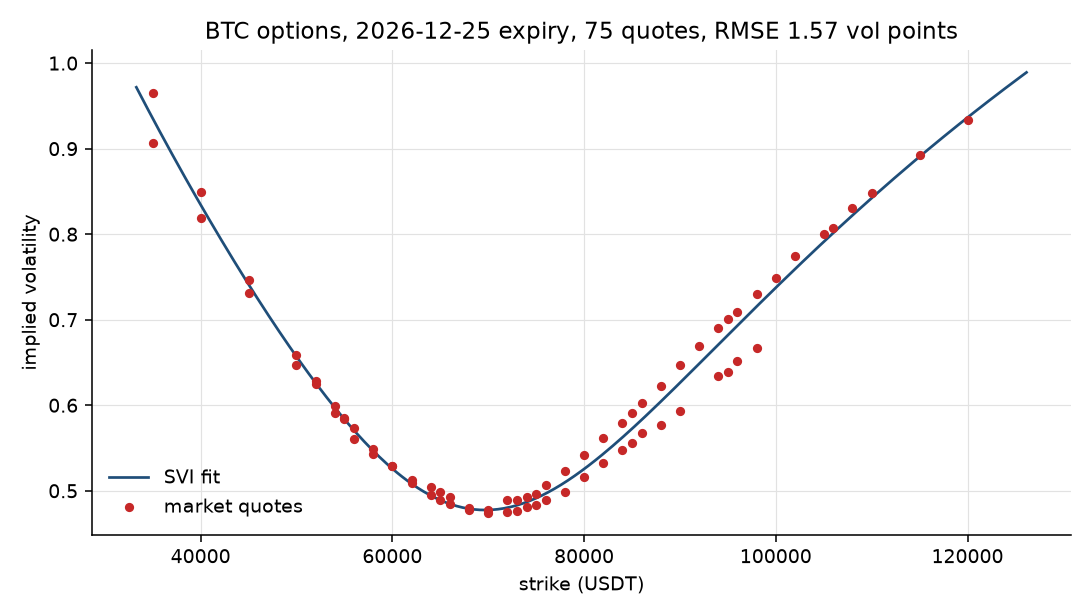
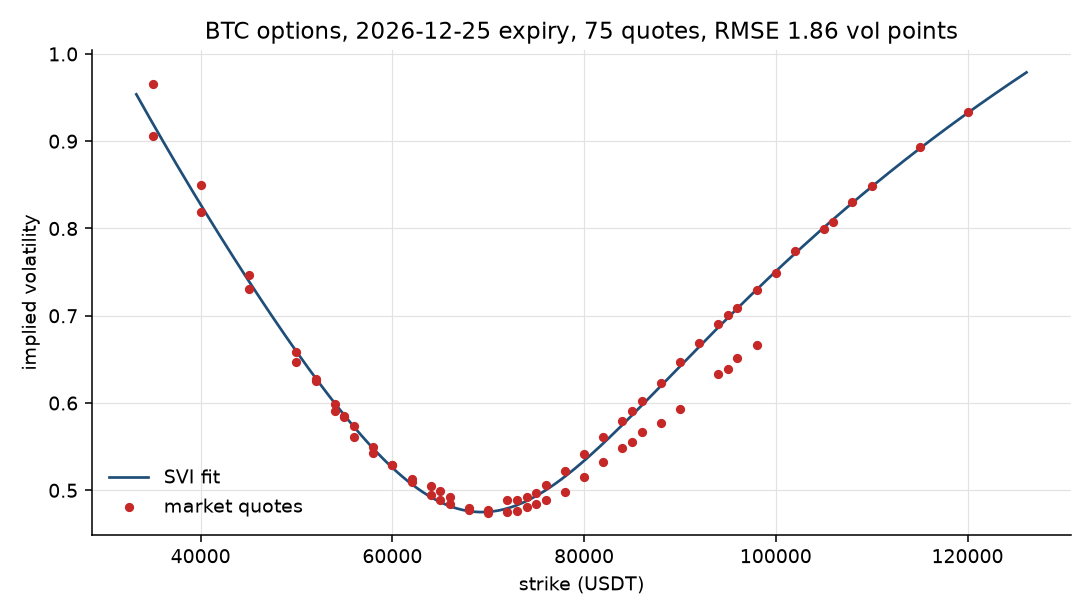
Weight quotes by spread and speed up the binomial tree

diff --git a/src/options_pricer/surface.py b/src/options_pricer/surface.py
@@ -191,17 +191,26 @@ def _fit(
     ridge: float,
     floor: SviParams | None = None,
     floor_weight: float = 10.0,
+    weights: list[float] | None = None,
 ) -> tuple[SviParams, float]:
     calendar_grid = np.linspace(-1.0, 1.0, 41)
     floor_values = (
         np.array([total_variance(k, floor) for k in calendar_grid]) if floor is not None else None
     )
 
+    if weights is not None:
+        if len(weights) != len(widths):
+            raise ValueError("weights must have one entry per quote")
+        scale = np.sqrt(np.array(weights, dtype=float))
+    else:
+        scale = np.ones(len(widths))
+
     def residuals(theta: np.ndarray) -> np.ndarray:
         candidate = SviParams(*[float(value) for value in theta])
         market = np.array(
             [total_variance(k, candidate) - w for k, w in zip(ks, widths, strict=True)], dtype=float
         )
+        market = market * scale
         shrink = ridge * (theta - guess)
         parts = [market, shrink]
 
@@ -238,6 +247,7 @@ def _fit_hard(
     initial: SviParams | None,
     ridge: float,
     floor: SviParams,
+    weights: list[float] | None = None,
 ) -> tuple[SviParams, float]:
     """Fit with the calendar constraint imposed as an explicit inequality.
 
@@ -259,9 +269,16 @@ def _fit_hard(
 
     def objective(theta: np.ndarray) -> float:
         candidate = SviParams(*[float(value) for value in theta])
-        market = sum(
-            (total_variance(k, candidate) - w) ** 2 for k, w in zip(ks, widths, strict=True)
+        if weights is None:
+            weight_array = np.ones(len(widths))
+        else:
+            if len(weights) != len(widths):
+                raise ValueError("weights must have one entry per quote")
+            weight_array = np.array(weights, dtype=float)
+        errors = np.array(
+            [total_variance(k, candidate) - w for k, w in zip(ks, widths, strict=True)]
         )
+        market = float(np.sum(weight_array * errors * errors))
         shrink = ridge * float(np.sum((theta - guess) ** 2))
         return market + shrink
 
@@ -301,13 +318,14 @@ def calibrate_from_vols(
     floor: SviParams | None = None,
     floor_weight: float = 10.0,
     hard_calendar: bool = False,
+    weights: list[float] | None = None,
 ) -> tuple[SviParams, float]:
     """Fit an SVI slice directly to implied volatilities, without going through prices.
 
     When floor is given, total variance is pushed to stay above that slice at
     every point of the grid, which removes calendar arbitrage against the
     previous maturity. With hard_calendar the constraint is imposed by SLSQP
-    instead of a penalty.
+    instead of a penalty. Weights, when given, multiply each squared residual.
     """
     if len(log_moneyness) != len(vols):
         raise ValueError("log_moneyness and vols must have the same length")
@@ -317,9 +335,9 @@ def calibrate_from_vols(
     widths = [vol * vol * expiry for vol in vols]
 
     if hard_calendar and floor is not None:
-        return _fit_hard(expiry, log_moneyness, widths, initial, ridge, floor)
+        return _fit_hard(expiry, log_moneyness, widths, initial, ridge, floor, weights)
 
-    return _fit(expiry, log_moneyness, widths, initial, ridge, floor, floor_weight)
+    return _fit(expiry, log_moneyness, widths, initial, ridge, floor, floor_weight, weights)
 
 
 def calibrate_surface(

diff --git a/src/options_pricer/ssvi.py b/src/options_pricer/ssvi.py
@@ -69,11 +69,12 @@ def calibrate_ssvi(
     expiries: list[float],
     log_moneyness: list[list[float]],
     vols: list[list[float]],
+    weights: list[list[float]] | None = None,
 ) -> tuple[SsviParams, float, list[float]]:
     """Fit rho, eta and gamma on all slices at once.
 
     Returns the parameters, the RMSE in implied volatility and the theta of each
-    expiry.
+    expiry. Weights, when given, multiply each squared residual.
     """
     if len(expiries) != len(log_moneyness) or len(expiries) != len(vols):
         raise ValueError("expiries, log_moneyness and vols must have the same length")
@@ -93,11 +94,22 @@ def calibrate_ssvi(
     if len(flat) < 3:
         raise ValueError("at least three quotes are needed for three parameters")
 
+    if weights is None:
+        flat_weights = np.ones(len(flat))
+    else:
+        if len(weights) != len(expiries):
+            raise ValueError("weights must have one entry per expiry")
+        flat_weights = np.array([weight for slice_weights in weights for weight in slice_weights])
+
     def residuals(x: np.ndarray) -> np.ndarray:
         candidate = SsviParams(rho=float(x[0]), eta=float(x[1]), gamma=float(x[2]))
-        errors = [total_variance(k, theta, candidate) - width for _, theta, k, width in flat]
+        errors = np.array(
+            [total_variance(k, theta, candidate) - width for _, theta, k, width in flat],
+            dtype=float,
+        )
+        errors = errors * np.sqrt(flat_weights)
         violation = max(0.0, candidate.eta * (1.0 + abs(candidate.rho)) - 3.9)
-        return np.array([*errors, 100.0 * violation], dtype=float)
+        return np.concatenate([errors, np.array([100.0 * violation])])
 
     guess = np.array([-0.4, 1.0, 0.4])
     lower = np.array([-0.999, 0.01, 0.01])

diff --git a/src/options_pricer/real_data.py b/src/options_pricer/real_data.py
@@ -19,6 +19,8 @@ class Quote:
     side: str
     mid: float
     index: float
+    bid: float = 0.0
+    ask: float = 0.0
 
 
 @dataclass(frozen=True)
@@ -29,6 +31,7 @@ class Slice:
     log_moneyness: list[float]
     vols: list[float]
     strikes: list[float]
+    weights: list[float]
 
 
 def load_chain(path: Path) -> list[Quote]:
@@ -43,6 +46,8 @@ def load_chain(path: Path) -> list[Quote]:
                     side=row["side"],
                     mid=float(row["mid"]),
                     index=float(row["index"]),
+                    bid=float(row.get("bid", 0.0)),
+                    ask=float(row.get("ask", 0.0)),
                 )
             )
     return quotes
@@ -77,6 +82,7 @@ def build_slice(
     log_moneyness: list[float] = []
     vols: list[float] = []
     strikes: list[float] = []
+    weights: list[float] = []
 
     for quote in quotes:
         if not (min_moneyness * forward <= quote.strike <= max_moneyness * forward):
@@ -90,9 +96,19 @@ def build_slice(
         if not (0.02 < vol < 3.0):
             continue
 
+        spread = (
+            (quote.ask - quote.bid) / quote.mid
+            if quote.ask > quote.bid and quote.mid > 0.0
+            else 0.01
+        )
+
         log_moneyness.append(math.log(quote.strike / forward))
         vols.append(vol)
         strikes.append(quote.strike)
+        weights.append(1.0 / max(spread, 1e-4))
+
+    mean_weight = sum(weights) / len(weights) if weights else 1.0
+    weights = [weight / mean_weight for weight in weights]
 
     return Slice(
         expiry=quotes[0].expiry,
@@ -101,4 +117,5 @@ def build_slice(
         log_moneyness=log_moneyness,
         vols=vols,
         strikes=strikes,
+        weights=weights,
     )

diff --git a/scripts/ssvi_compare.py b/scripts/ssvi_compare.py
@@ -31,7 +31,9 @@ def main() -> None:
     ks = [current.log_moneyness for current in slices]
     vols = [current.vols for current in slices]
 
-    params, rmse, thetas = calibrate_ssvi(expiries, ks, vols)
+    params, rmse, thetas = calibrate_ssvi(
+        expiries, ks, vols, weights=[current.weights for current in slices]
+    )
     print(f"SSVI rho {params.rho:.4f}  eta {params.eta:.4f}  gamma {params.gamma:.4f}")
     print(f"SSVI arbitrage free: {is_arbitrage_free(params)}")
     print(f"SSVI global RMSE: {rmse:.6f}")
@@ -39,7 +41,11 @@ def main() -> None:
     print("expiry        theta     SVI rmse    SSVI rmse")
     for current, theta in zip(slices, thetas, strict=True):
         _, svi_rmse = calibrate_from_vols(
-            current.years, current.log_moneyness, current.vols, ridge=1e-2
+            current.years,
+            current.log_moneyness,
+            current.vols,
+            ridge=1e-2,
+            weights=current.weights,
         )
         errors = [
             (math.sqrt(max(total_variance(k, theta, params) / current.years, 1e-12)) - vol) ** 2

diff --git a/src/options_pricer/american.py b/src/options_pricer/american.py
@@ -56,12 +56,13 @@ def _tree(
     if not 0.0 < probability < 1.0:
         raise ValueError("risk-neutral probability is outside (0, 1): increase the number of steps")
 
-    values = _intrinsic(option_type, _terminal_prices(spot, up, down, steps), strike)
+    prices = _terminal_prices(spot, up, down, steps)
+    values = _intrinsic(option_type, prices, strike)
 
-    for step in range(steps - 1, -1, -1):
+    for _ in range(steps - 1, -1, -1):
         values = discount * (probability * values[:-1] + (1.0 - probability) * values[1:])
+        prices = prices[:-1] * down
         if american:
-            prices = _terminal_prices(spot, up, down, step)
             values = np.maximum(values, _intrinsic(option_type, prices, strike))
 
     return float(values[0])

diff --git a/tests/test_surface.py b/tests/test_surface.py
@@ -161,6 +161,18 @@ def test_calibrate_rejects_prices_without_a_valid_implied_vol() -> None:
         calibrate(SPOT, RATE, EXPIRY, STRIKES, [0.0] * len(STRIKES))
 
 
+def test_calibrate_from_vols_rejects_mismatched_weights() -> None:
+    with pytest.raises(ValueError):
+        calibrate_from_vols(EXPIRY, [0.0] * 5, [0.2] * 5, weights=[1.0] * 4)
+
+
+def test_weighted_calibration_converges() -> None:
+    ks = [-0.2, -0.1, 0.0, 0.1, 0.2]
+    vols = [svi_implied_vol(k, EXPIRY, PARAMS) for k in ks]
+    _, rmse = calibrate_from_vols(EXPIRY, ks, vols, weights=[1.0, 2.0, 3.0, 2.0, 1.0])
+    assert rmse < 1e-4
+
+
 def test_calibrate_surface_rejects_empty_input() -> None:
     with pytest.raises(ValueError):
         calibrate_surface(SPOT, RATE, [], STRIKES, [])

diff --git a/tests/test_real_data.py b/tests/test_real_data.py
@@ -49,6 +49,12 @@ def test_forward_is_above_the_index_for_this_snapshot(quotes: list[Quote]) -> No
     assert current.forward == pytest.approx(60_875.0, rel=1e-3)
 
 
+def test_slice_weights_have_mean_one(quotes: list[Quote]) -> None:
+    current = build_slice([quote for quote in quotes if quote.expiry == "2026-12-25"])
+    assert len(current.weights) == len(current.vols)
+    assert sum(current.weights) / len(current.weights) == pytest.approx(1.0)
+
+
 def test_forward_falls_back_to_the_index_without_a_pair() -> None:
     quotes = [
         Quote("2026-12-25", 32.5, 100.0, "C", 5.0, 101.0),

diff --git a/src/options_pricer/__init__.py b/src/options_pricer/__init__.py
@@ -1,6 +1,6 @@
 """Option pricing with Black-Scholes, Monte Carlo, SVI and SSVI calibration."""
 
-__version__ = "0.4.0"
+__version__ = "0.5.0"
 
 from .american import BinomialResult, binomial
 from .black_scholes import Greeks, OptionType, deltas, greeks, price, prices, vegas

diff --git a/scripts/real_surface.py b/scripts/real_surface.py
@@ -55,6 +55,7 @@ def main() -> None:
             initial=previous,
             floor=previous,
             hard_calendar=True,
+            weights=current.weights,
         )
         previous = params
         slices.append((current, params, rmse))

diff --git a/scripts/real_smile.py b/scripts/real_smile.py
@@ -67,6 +67,7 @@ def main() -> None:
             ridge=1e-2,
             floor=previous,
             hard_calendar=True,
+            weights=current.weights,
         )
         previous = params
         fits[expiry] = (current, params, rmse)

diff --git a/README.md b/README.md
@@ -121,9 +121,13 @@ need.
 
 | Expiry | Days | Forward | Quotes | RMSE |
 | --- | --- | --- | --- | --- |
-| 2026-12-25 | 32.5 | 60,875.00 | 75 | 1.57 vol points |
-| 2027-01-29 | 67.5 | 61,127.50 | 85 | 0.42 vol points |
-| 2027-03-26 | 123.5 | 61,627.50 | 78 | 0.58 vol points |
+| 2026-12-25 | 32.5 | 60,875.00 | 75 | 1.86 vol points |
+| 2027-01-29 | 67.5 | 61,127.50 | 85 | 0.38 vol points |
+| 2027-03-26 | 123.5 | 61,627.50 | 78 | 0.62 vol points |
+
+Quotes are weighted by the inverse of their relative bid-ask spread, so the fit
+leans on the liquid strikes instead of treating a tight quote and a wide one as
+equally informative.
 
 The short expiry is the hard one. A five-parameter SVI cannot follow the full
 curvature of a 33-day crypto smile, and the fit leaves 1.57 vol points of RMSE.
@@ -166,6 +170,10 @@ The vectorised path takes one million prices at once:
 | --- | --- |
 | 30.2 ms | 33,087,603 |
 
+The binomial tree with 1,000 steps takes 12.5 ms. The price vector is updated
+incrementally as the tree walks back, instead of being rebuilt at every step,
+which cut the time from 31.1 ms.
+
 Out-of-sample error and bootstrap intervals on the real BTC snapshot. The model
 is fitted on two thirds of the strikes and scored on the rest:
 
@@ -185,11 +193,11 @@ same snapshot:
 
 | Expiry | SVI RMSE | SSVI RMSE |
 | --- | --- | --- |
-| 2026-12-25 | 0.015673 | 0.060504 |
-| 2027-01-29 | 0.002231 | 0.015149 |
-| 2027-03-26 | 0.003485 | 0.010816 |
+| 2026-12-25 | 0.018607 | 0.055685 |
+| 2027-01-29 | 0.002250 | 0.017037 |
+| 2027-03-26 | 0.003533 | 0.015304 |
 
-SSVI is arbitrage free with rho -0.3412, eta 1.0188 and gamma 0.5000. It fits
+SSVI is arbitrage free with rho -0.3318, eta 1.0639 and gamma 0.5000. It fits
 worse, as expected: three parameters cannot follow three independent smiles. The
 trade is consistency against accuracy, and the calibration is explicit about it.
 
@@ -237,12 +245,10 @@ moneyness: `w(k, T2) >= w(k, T1)` for `T2 > T1`.
 
 On the real snapshot the three slices are butterfly-free: zero per cent of the
 grid points violate `g >= 0`. Calendar is tighter. Fitting each expiry
-independently leaves a gap of -0.0156 between the first two expiries, so the
-short slice carries more total variance than the long one somewhere in the
-wings. The long slice is then refitted with the calendar constraint imposed by
-SLSQP instead of a penalty. The gap becomes +9.99e-15, zero to machine
-precision, and the price is a worse fit: the RMSE of the middle expiry goes from
-0.0021 to 0.0042, and the last one from 0.0035 to 0.0058.
+independently leaves a gap between the first two expiries, so the long slice is
+refitted with the constraint imposed by SLSQP. The gap becomes -8.55e-14, which
+is numerical noise, and the price is a worse fit: with weights and the hard
+constraint, the last two slices land at 0.0038 and 0.0062 of RMSE.
 
 The hard constraint is opt-in through `hard_calendar=True`. SLSQP can fail to
 converge on a difficult slice, so the default remains the soft penalty.
@@ -271,6 +277,7 @@ with explicit non-linear constraints, and it is not implemented.
 - Barrier delta, vega and theta by bump and reprice with common random numbers.
 - SVI calibration on a versioned real snapshot of the Binance BTC options
   chain, not only on synthetic data.
+- Quotes weighted by the inverse relative bid-ask spread.
 - Butterfly and calendar diagnostics, plus a soft calendar penalty between
   consecutive expiries.
 - Six figures that regenerate from a script.
@@ -456,18 +463,18 @@ El repositorio incluye además un snapshot real de opciones de BTC de Binance,
 capturado el 22/11/2026 con el índice en 60.637,68 USDT. Son 446 cotizaciones en
 tres vencimientos. El forward de cada vencimiento sale de la paridad put-call con
 tipo cero, y el SVI se ajusta directamente a las volatilidades implícitas del
-mercado. El RMSE va de 0,21 puntos de volatilidad en el vencimiento a 67 días a
-1,57 puntos en el de 33 días. El vencimiento corto es el difícil: un SVI de cinco
-parámetros no sigue toda la curvatura de una sonrisa de cripto a un mes.
+mercado, ponderando cada cotización por la inversa de su spread relativo. El RMSE
+va de 0,38 puntos de volatilidad en el vencimiento a 67 días a 1,86 puntos en el
+de 33 días. El vencimiento corto es el difícil: un SVI de cinco parámetros no
+sigue toda la curvatura de una sonrisa de cripto a un mes.
 
 El ajuste se comprueba contra dos condiciones de no arbitraje. La de mariposa,
 con la función de Gatheral, no se viola en ningún punto de las tres slices. La de
 calendario sí: calibrando cada vencimiento por separado, la varianza total cae al
-alargar el plazo en 0,0156. Al reajustar la slice larga con la restricción
-impuesta por SLSQP, la violación desaparece, el gap queda en 9,99e-15, a cambio
-de empeorar el RMSE del vencimiento intermedio de 0,0021 a 0,0042 y el del último
-de 0,0035 a 0,0058. La restricción dura es opcional porque SLSQP puede no
-converger en una slice difícil.
+alargar el plazo. Al reajustar la slice larga con la restricción impuesta por
+SLSQP, la violación desaparece, el gap queda en -8,55e-14, a cambio de empeorar
+el ajuste: con pesos y restricción dura, los dos últimos vencimientos quedan en
+0,0038 y 0,0062 de RMSE.
 
 También hay opciones dependientes de la trayectoria. La asiática aritmética de
 referencia vale 5,797045 con un error estándar de 0,017937, muy por debajo de la
@@ -504,9 +511,9 @@ Eso no es un fallo del código: cinco parámetros no quedan identificados por un
 docena de cotizaciones, y `a` y `b` se compensan.
 
 También hay un ajuste SSVI de superficie completa con tres parámetros globales.
-En el mismo snapshot queda libre de arbitraje, con rho -0,3412, eta 1,0188 y
-gamma 0,5000, pero ajusta peor que un SVI por vencimiento: 6,05 puntos de RMSE en
-el plazo corto frente a 1,57. Es el intercambio entre consistencia y precisión, y
+En el mismo snapshot queda libre de arbitraje, con rho -0,3318, eta 1,0639 y
+gamma 0,5000, pero ajusta peor que un SVI por vencimiento: 5,57 puntos de RMSE en
+el plazo corto frente a 1,86. Es el intercambio entre consistencia y precisión, y
 está escrito tal cual.
 
 ## License

diff --git a/CHANGELOG.md b/CHANGELOG.md
@@ -1,5 +1,12 @@
 # Changelog
 
+## 0.5.0
+
+- Quotes weighted by the inverse relative bid-ask spread.
+- The binomial tree updates its price vector incrementally, 2.5 times faster.
+- SSVI accepts the same weights as the slice calibration.
+- 120 tests.
+
 ## 0.4.0
 
 - SSVI surface calibration with three global parameters and a no-arbitrage
